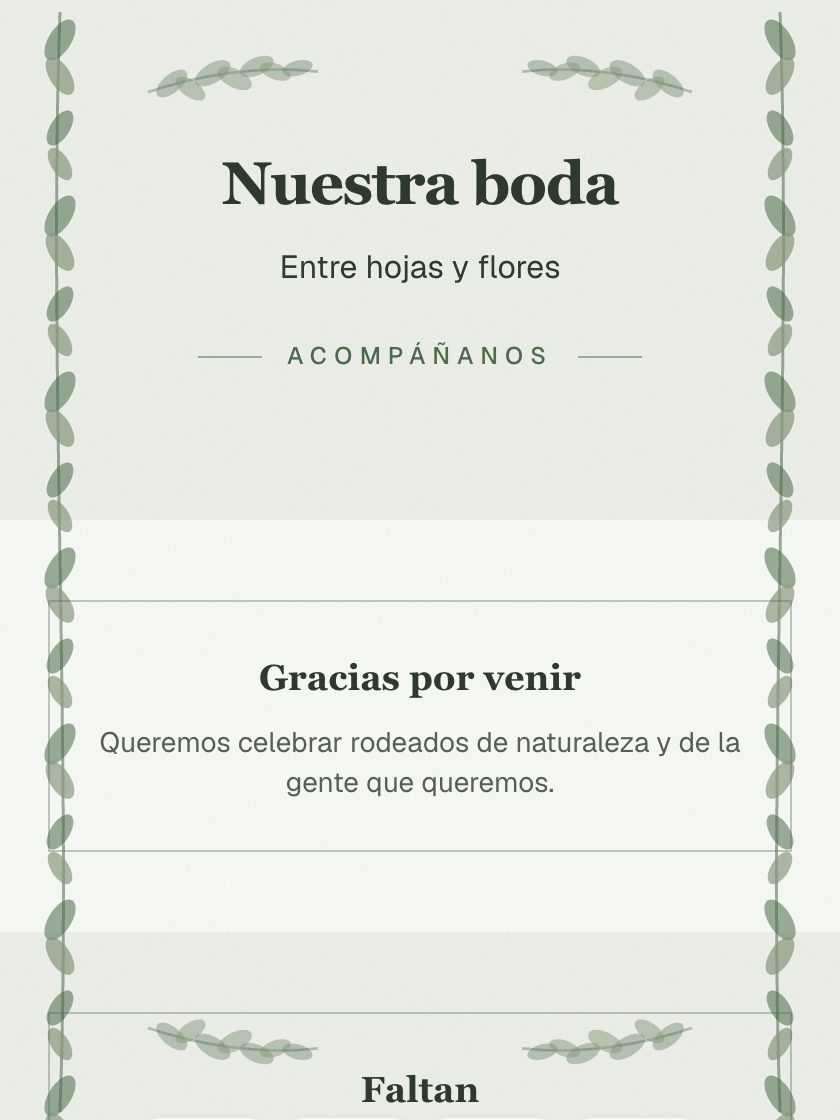
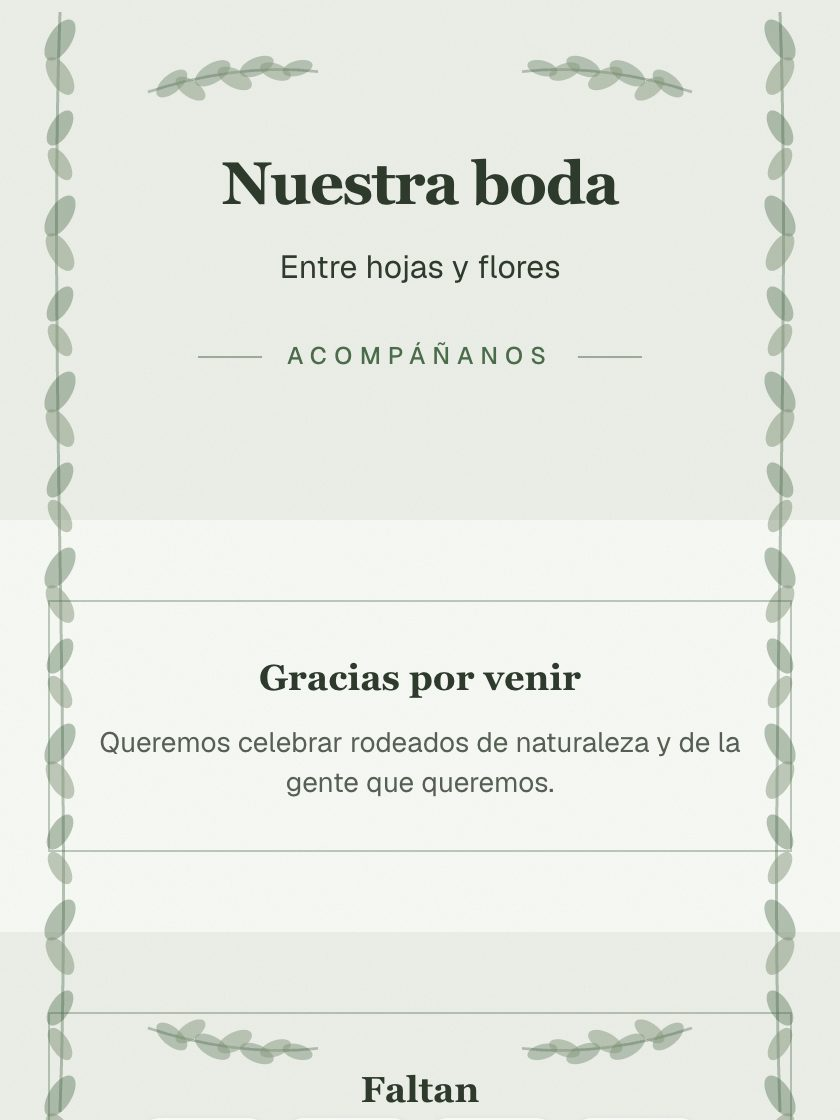
fix(arte): las 3 piezas que fallaban contraste donde el texto cae de verdad
Cierra las 3 que quedaban de las 4 detectadas al medir con la caja de texto
REAL (`y 53..900 x 17..403`) en vez de con la ventana del gate
(`y 135..765 x 63..357`). La cuarta, `corporativo-completo`, se habia
cerrado de rebote al rehacerla con la diagonal.

## Diagnostico, localizado y no adivinado

Las tres fallaban por lo MISMO: la banda lateral es demasiado oscura y cae
dentro de la caja del texto, en la franja `x 17..63` / `x 357..403` que la
ventana del gate no muestrea. Pixeles bajo 4.5 sobre 9230 muestras:

  corporativo-lanzamiento    5  ·  peor 3.47  ·  gris #111 al 0.55 en (8,178) r=13
  cumpleanos-futbol        186  ·  peor 3.60  ·  linea de banda #1f8a4c al 0.85
  boda-botanica             17  ·  peor 3.70  ·  superposicion tallo + dos hojas

## Los arreglos, uno por causa

- `corporativo-lanzamiento`: el punto del lanzamiento NO se aclara —es el
  origen de los haces y tiene que pesar—. Se ENCOGE (r 13 -> 10) y se
  recoloca (cx 8 -> 6) para que caiga entero en `x<17`, la franja que la caja
  medida deja libre. Conserva su fuerza y sale de donde cuesta.
- `cumpleanos-futbol`: el verde del campo es lo que le da su Event Relevance,
  asi que NO se cambia de color, solo de opacidad. Medido en dos pasos: a 0.8
  el peor pixel da ~4.47 y a 0.7 pasa; y la primera tanda (0.62) bajo de 186
  a 78 pixeles con peor 4.33, porque la linea de banda y el area GRANDE se
  cruzan en `x=42, y 336..564` y ahi las opacidades se SUMAN. Se bajaron las
  dos capas.
[…]

diff --git a/src/lib/invitations/template-preview.ts b/src/lib/invitations/template-preview.ts
@@ -67,4 +67,4 @@ export const ESCALA_CAPTURA = 2;
  * optimizador y la del navegador, y evita tener que renombrar 50 archivos o
  * volver a escribir 50 URLs en la BD en cada regeneración.
  */
-export const REVISION_MINIATURAS = "202609100107";
+export const REVISION_MINIATURAS = "202609100118";
